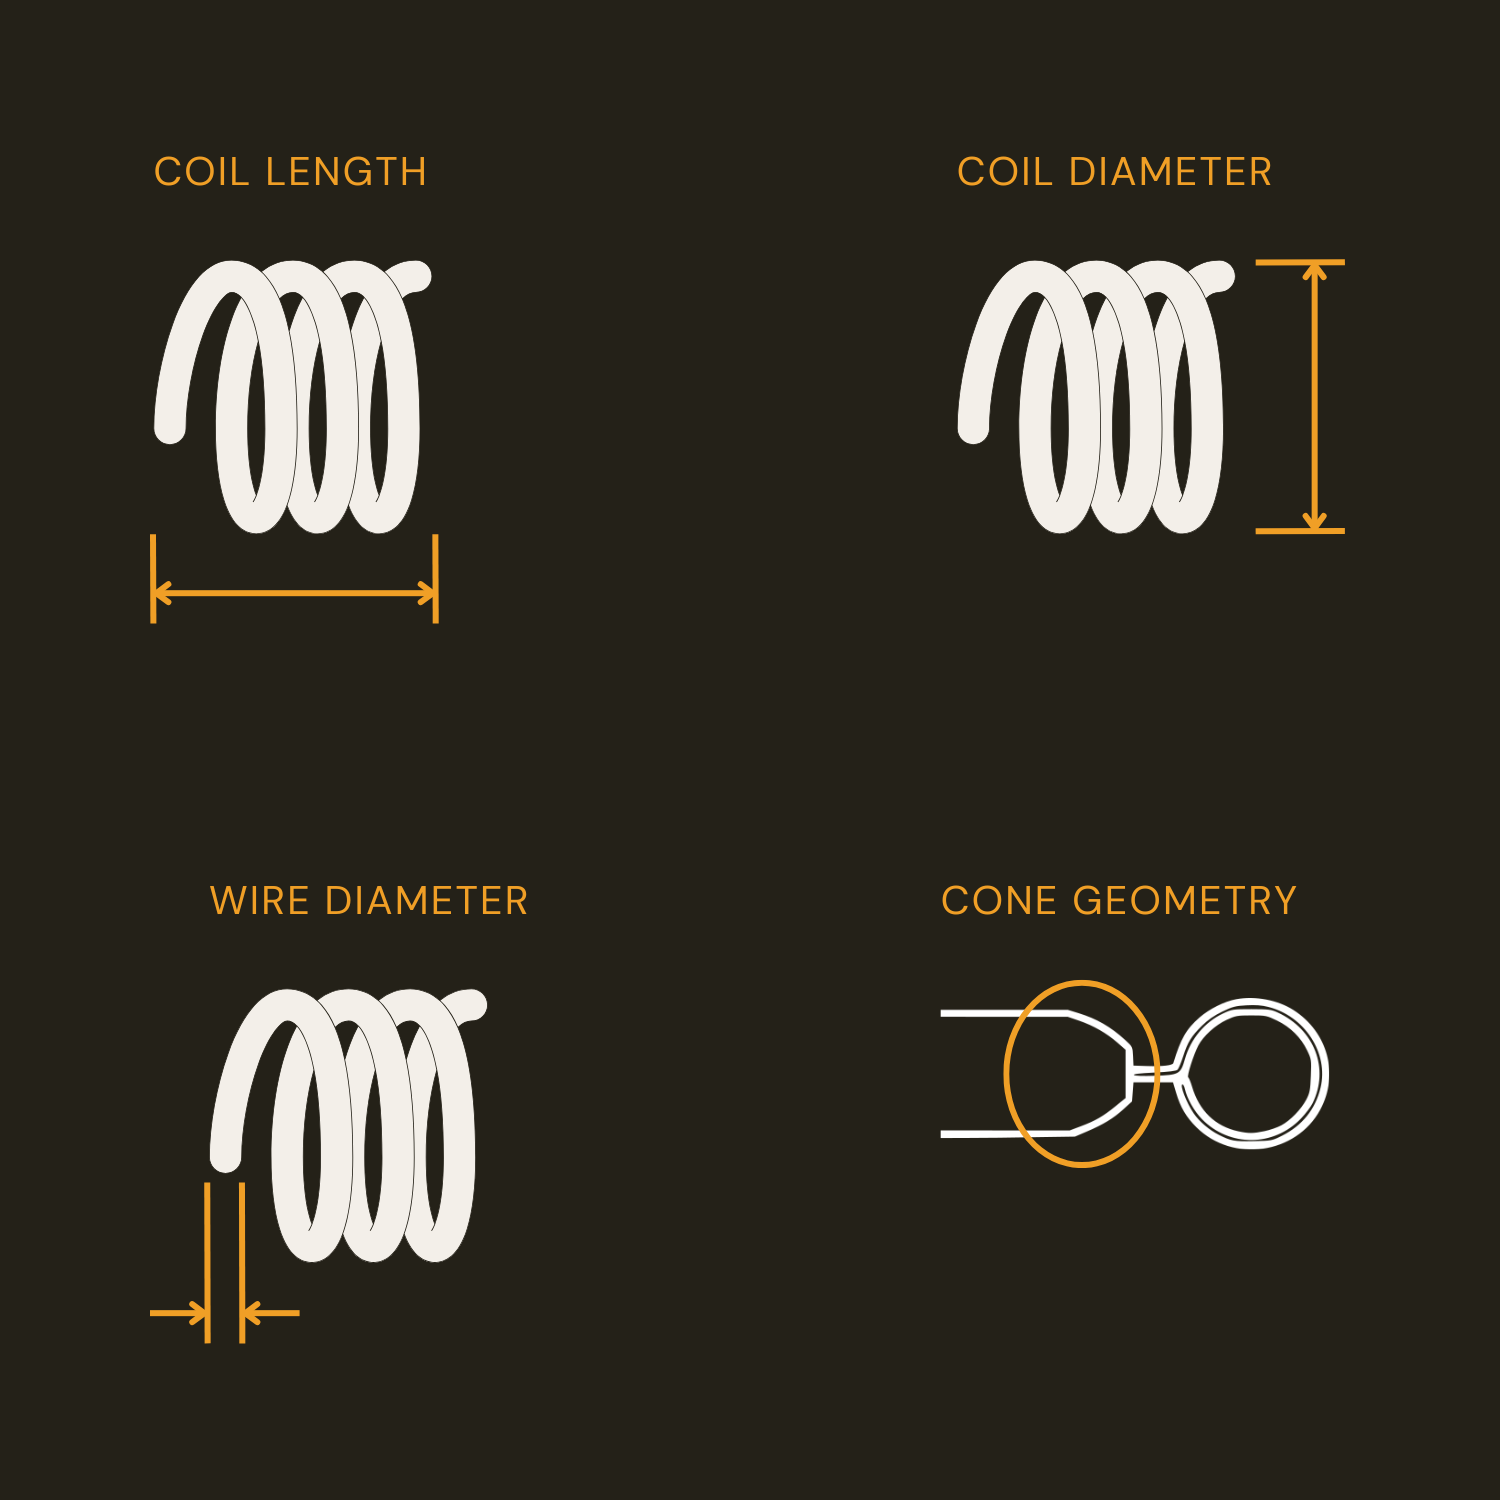
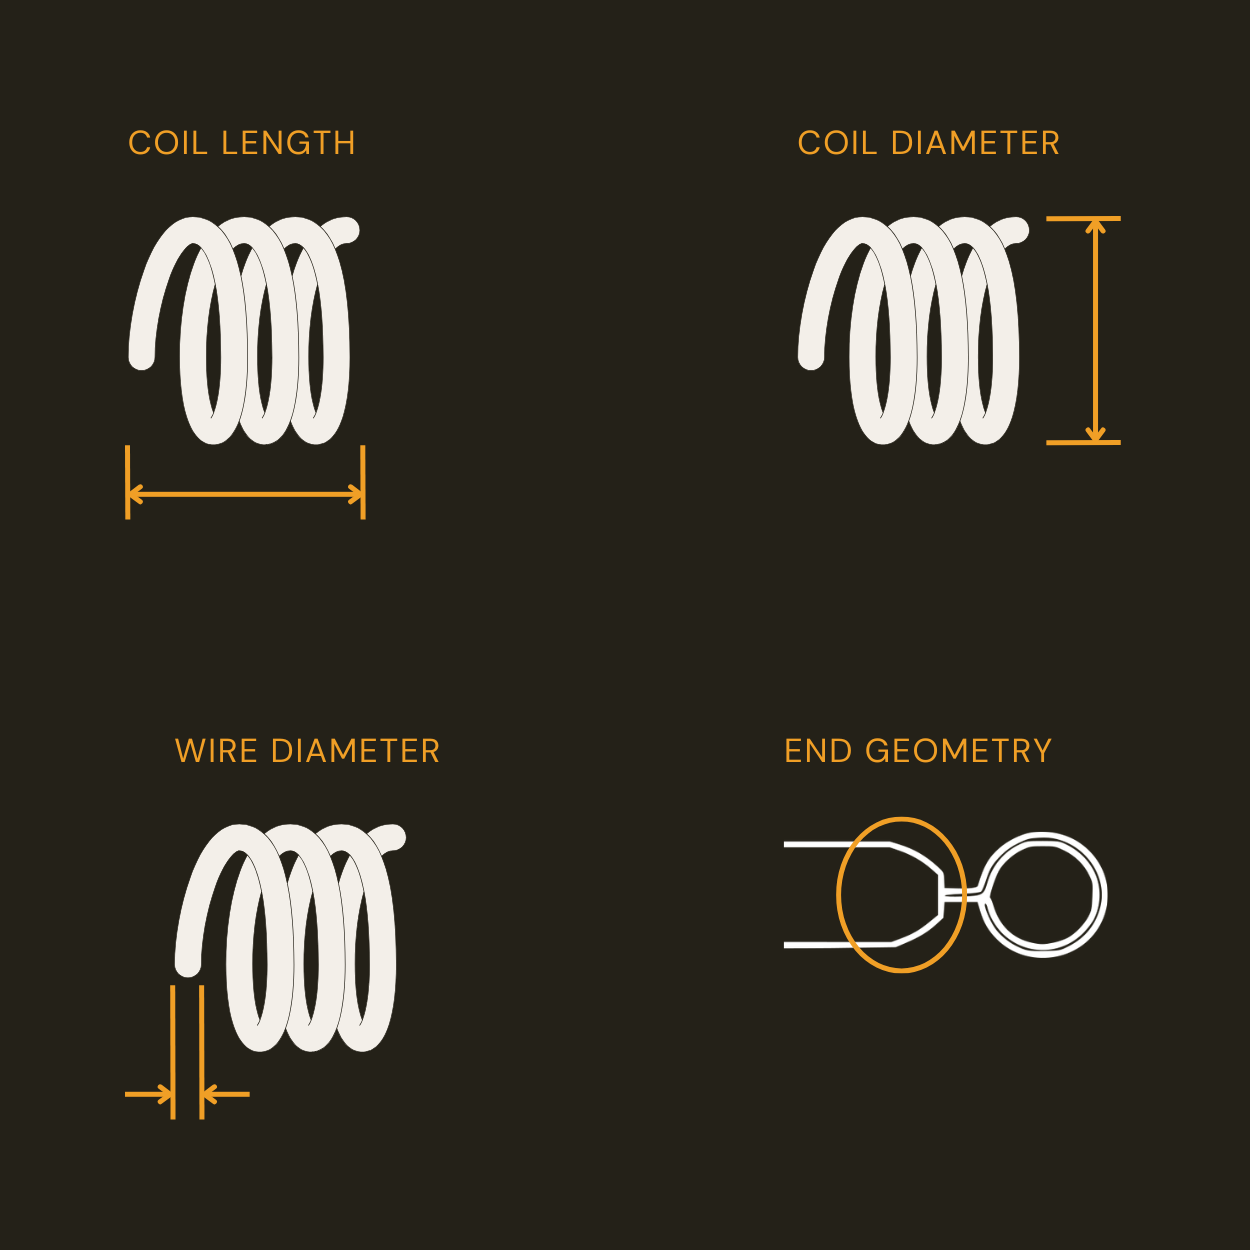
page 3 lesson 2 edits

diff --git a/src/components/course/LessonContent.jsx b/src/components/course/LessonContent.jsx
@@ -591,7 +591,7 @@ const m1Pages = {
           What determines <V>k</V> and <V>b</V>
         </SectionTitle>
         <Prose>
-          <p>Every extension spring has a set of physical characteristics that, together, produce its load curve. The five that matter most:</p>
+          <p>Every extension spring has a set of physical characteristics that, together, produce its load profile. The five that matter most:</p>
         </Prose>
         <div style={{ marginTop: '28px' }}>
           <div style={{ borderTop: '1px solid var(--color-rule)' }}>
@@ -605,10 +605,13 @@ const m1Pages = {
               The thickness of the wire the spring is wound from. Thicker wire wound more tightly produces a steeper <V>k</V>. Thinner wire wound more loosely produces something lighter and more compliant.
             </DefRow>
             <DefRow term="Material">
-              Most Pilates reformer springs are made from galvanized music wire, a high-carbon steel chosen for its consistency and fatigue resistance. Coating affects surface feel and corrosion protection but doesn't change the load curve.
+              Most Pilates reformer springs are made from galvanized music wire, a high-carbon steel chosen for its consistency and fatigue resistance. Coating affects surface feel and corrosion protection but doesn't change the load profile.
             </DefRow>
             <DefRow term="End geometry">
-              The shape of the hooks or loops at each end. This determines how the spring connects to the equipment and influences the initial tension <V>b</V>.
+              The shape of the end of the spring coil at each end. Some are flat and square, and some are tapered (also referred to as coned). This determines how the spring connects to the equipment and can influence the initial tension <V>b</V>.
+            </DefRow>
+            <DefRow term="Internal torsional stress">
+              The initial tension of a spring can be manipulated during manufacturing by coiling the wire with a pitch smaller than its diameter, causing the coils to twist and press against each other.
             </DefRow>
           </div>
         </div>
@@ -617,7 +620,7 @@ const m1Pages = {
           alt="Spring anatomy diagram with coil length, coil diameter, wire diameter, material, and end geometry labeled on a representative extension spring."
         />
         <Prose>
-          <p>None of these variables operate in isolation. Change the wire diameter and you change <V>k</V>. Change the coil diameter and you change both <V>k</V> and the spring's maximum safe extension. This is why two springs that look similar on a shelf can have meaningfully different load curves — and why matching springs across brands by color or by feel alone is unreliable.</p>
+          <p>None of these variables operate in isolation. Change the wire diameter and you change <V>k</V>. Change the coil diameter and you change both <V>k</V> and the spring's maximum safe extension. This is why two springs that look similar on a shelf can have meaningfully different load profiles — and why matching springs across brands by color or by feel alone is unreliable.</p>
         </Prose>
       </div>
     ),
